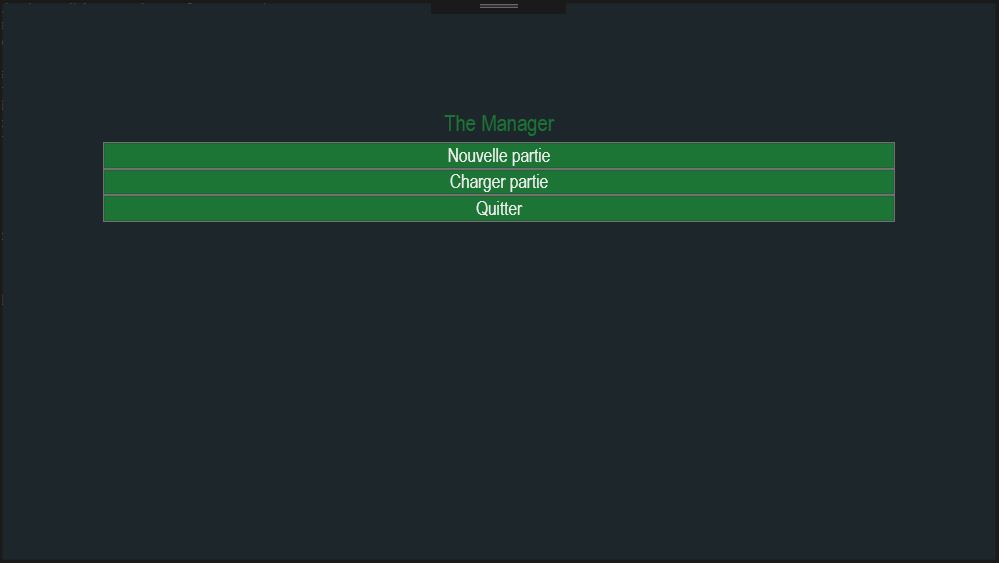
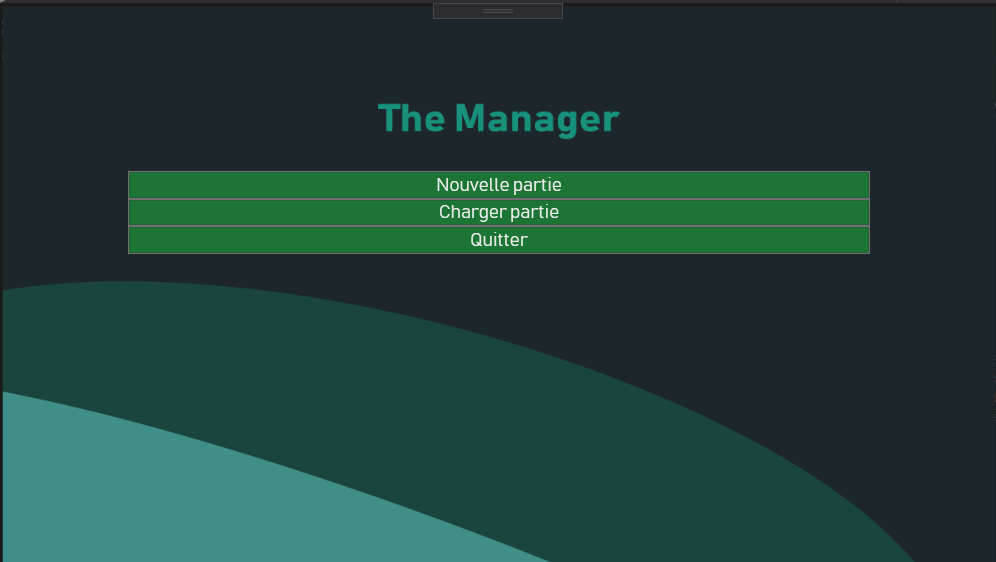
Layout adjustements

diff --git a/TheManager_GUI/Windows_Menu.xaml b/TheManager_GUI/Windows_Menu.xaml
@@ -42,12 +42,12 @@
 								<TextBlock Style="{StaticResource StyleTextBlock}" TextWrapping="WrapWithOverflow">Dijon s'impose 4 buts à contre le Paris Saint-Germain</TextBlock>
 							</StackPanel>
 						</StackPanel>
-						<StackPanel Orientation="Vertical">
+						<StackPanel Orientation="Vertical" Width="350">
 							<Button Name="btnParticipants" Width="100" Style="{StaticResource StyleButton1}" Content="Participants" Click="BtnParticipants_Click"/>
 							<StackPanel x:Name="spRoundRanking">
 								
 							</StackPanel>
-							<DataGrid Margin="10" IsReadOnly="True" Height="300" GridLinesVisibility="None" MouseDoubleClick="DgClassement_MouseDoubleClick" Name="dgClassement" Style="{StaticResource StyleDataGrid}" ColumnHeaderStyle="{StaticResource StyleDataHeaderGrid}">
+							<!--<DataGrid Margin="10" IsReadOnly="True" Height="300" GridLinesVisibility="None" MouseDoubleClick="DgClassement_MouseDoubleClick" Name="dgClassement" Style="{StaticResource StyleDataGrid}" ColumnHeaderStyle="{StaticResource StyleDataHeaderGrid}">
 								<DataGrid.Columns>
 									<DataGridTemplateColumn Width="18">
 										<DataGridTemplateColumn.CellTemplate>
@@ -72,7 +72,8 @@
 
 									</Style>
 								</DataGrid.CellStyle>
-							</DataGrid>
+							</DataGrid>-->
+
 							<StackPanel Orientation="Horizontal" HorizontalAlignment="Center">
 								<Button Name="btnGauche" Click="BtnGauche_Click">
 									<Image Name="imgBtnGauche" Source="Images/left.png" Width="25" Height="25"/>
@@ -82,9 +83,9 @@
 									<Image Name="imgBtnDroite" Source="Images/right.png" Width="25" Height="25"/>
 								</Button>
 							</StackPanel>
-							<DockPanel Name="spRoundGames" Height="175" VerticalAlignment="Stretch">
-								
-							</DockPanel>
+							<StackPanel Name="spRoundGames">
+
+							</StackPanel>
 							<!--<DataGrid IsReadOnly="True" MouseDoubleClick="DataGridRow_MouseDoubleClick" Height="175" Name="dgMatchs" Style="{StaticResource StyleDataGrid}" CellStyle="{StaticResource StyleDataCellGrid}" ColumnHeaderStyle="{StaticResource StyleDataHeaderGrid}">
 								<DataGrid.Columns>
 									<DataGridTextColumn Header="" Binding="{Binding Heure}"/>

diff --git a/TheManager_GUI/MainWindow.xaml b/TheManager_GUI/MainWindow.xaml
@@ -5,10 +5,10 @@
         xmlns:mc="http://schemas.openxmlformats.org/markup-compatibility/2006"
         xmlns:local="clr-namespace:TheManager_GUI"
         mc:Ignorable="d"
-        Title="The Manager" Height="450" Width="800" Style="{StaticResource StyleWindows}">
-    <Grid>
-		<StackPanel Margin="80">
-			<Label Content="The Manager" Style="{StaticResource StyleLabel1}"/>
+        Title="The Manager" Height="450" Width="800" Style="{StaticResource StyleWindows}" Name="mainWindow" >
+	<Grid>
+		<StackPanel Margin="100">
+			<Label Content="" Style="{StaticResource StyleLabel1}"/>
 			<Button Name="btnNouvellePartie" Click="BtnNouvellePartie_Click" Content="Nouvelle partie" Style="{StaticResource StyleButton1}"/>
 			<Button Name="btnChargerPartie" Click="BtnChargerPartie_Click" Content="Charger partie" Style="{StaticResource StyleButton1}"/>
 			<Button Name="btnQuitter" Click="BtnQuitter_Click" Content="Quitter" Style="{StaticResource StyleButton1}"/>

diff --git a/TheManager_GUI/App.xaml b/TheManager_GUI/App.xaml
@@ -88,6 +88,11 @@
 			<Setter Property="Foreground" Value="{StaticResource color2}" />
 		</Style>
 
+		<Style x:Key="StyleTextBlockLittle" TargetType="{x:Type TextBlock}">
+			<Setter Property="FontSize" Value="12"/>
+			<Setter Property="FontFamily" Value="{DynamicResource Font}"/>
+			<Setter Property="Foreground" Value="{StaticResource color2}" />
+		</Style>
 
 		<Style x:Key="StyleCheckBox" TargetType="{x:Type CheckBox}">
 			<Setter Property="FontSize" Value="13"/>

diff --git a/TheManager_GUI/Windows_Menu.xaml.cs b/TheManager_GUI/Windows_Menu.xaml.cs
@@ -62,7 +62,7 @@ namespace TheManager_GUI
                 TextBlock tb = new TextBlock();
                 tb.TextWrapping = TextWrapping.WrapWithOverflow;
                 tb.Text = a.publication.ToShortDateString() + " - " + a.title;
-                tb.Style = Application.Current.FindResource("StyleTextBlock") as Style;
+                tb.Style = Application.Current.FindResource("StyleTextBlockLittle") as Style;
                 spNews.Children.Add(tb);
 
             }
@@ -95,7 +95,7 @@ namespace TheManager_GUI
             if(c != null)
             {
                 lbTours.Items.Clear();
-                dgClassement.Items.Clear();
+                //dgClassement.Items.Clear();
                 foreach (Round t in c.rounds)
                 {
                     lbTours.Items.Add(t);
@@ -108,11 +108,11 @@ namespace TheManager_GUI
         {
             Round t = lbTours.SelectedItem as Round;
 
-            IVueClassement vue = FabriqueVueClassement.CreerVue(dgClassement, t, 0.7);
+            IVueClassement vue = FabriqueVueClassement.CreerVue(/*dgClassement*/null, t, 0.7);
             if (vue != null)
             {
                 vue.Remplir(spRoundRanking);
-                vue.Afficher();
+                //vue.Afficher();
             }
             /*
             if (t as TourChampionnat != null)
@@ -141,6 +141,7 @@ namespace TheManager_GUI
             }
         }*/
 
+        /*
         private void DgClassement_MouseDoubleClick(object sender, MouseButtonEventArgs e)
         {
             if(dgClassement.SelectedItem != null)
@@ -153,7 +154,7 @@ namespace TheManager_GUI
                 }
                    
             }
-        }
+        }*/
 
         private void BtnOptions_Click(object sender, RoutedEventArgs e)
         {
@@ -380,10 +381,10 @@ namespace TheManager_GUI
             view.Refresh();
             foreach (Match m in matchs)
             {
-                if (lastTime != m.day.Date)
+                /*if (lastTime != m.day.Date)
                 {
-                    //dgMatchs.Items.Add(new CalendrierElement { Heure=m.day.ToShortDateString()});
-                }
+                    dgMatchs.Items.Add(new CalendrierElement { Heure=m.day.ToShortDateString()});
+                }*/
                 lastTime = m.day.Date;
                 string score = "A jouer";
                 string affluence = "-";

diff --git a/TheManager_GUI/VueClassement/MatchesDataGridView.cs b/TheManager_GUI/VueClassement/MatchesDataGridView.cs
@@ -103,9 +103,9 @@ namespace TheManager_GUI.VueClassement
         private readonly bool _showOdds;
         private readonly bool _showHour;
         private readonly bool _showTournament;
-        private readonly List<TheManager.Match> _matches;
+        private readonly List<Match> _matches;
 
-        public MatchesDataGridView(Panel panel, List<TheManager.Match> matches, bool showHour, bool showDateSeparated, bool showAttendance, bool showOdds, bool showTournament)
+        public MatchesDataGridView(Panel panel, List<Match> matches, bool showHour, bool showDateSeparated, bool showAttendance, bool showOdds, bool showTournament)
         {
             _panel = panel;
             _showTournament = showTournament;
@@ -218,7 +218,7 @@ namespace TheManager_GUI.VueClassement
             }
 
             DateTime lastTime = new DateTime(2000, 1, 1);
-            foreach (TheManager.Match m in _matches)
+            foreach (Match m in _matches)
             {    
                 if (_showSeparatedDate && lastTime != m.day.Date)
                 {

diff --git a/TheManager_GUI/VueClassement/VueClassementChampionnat.cs b/TheManager_GUI/VueClassement/VueClassementChampionnat.cs
@@ -89,10 +89,10 @@ namespace TheManager_GUI.VueClassement
                 image.Source = new BitmapImage(new Uri(Utils.Logo(c)));
                 image.Width = 30 * _sizeMultiplier;
 
-                double regularCellWidth = 40/* * (1 + ((_sizeMultiplier - 1)/2))*/;
+                double regularCellWidth = 36/* * (1 + ((_sizeMultiplier - 1)/2))*/;
 
                 Label l2 = new Label();
-                ApplyStyle2Label(l2, 150 * _sizeMultiplier);
+                ApplyStyle2Label(l2, 175 * _sizeMultiplier);
                 l2.Content = c.shortName;
 
                 Label l3 = new Label();

diff --git a/TheManager_GUI/MainWindow.xaml.cs b/TheManager_GUI/MainWindow.xaml.cs
@@ -51,9 +51,16 @@ namespace TheManager_GUI
 
         }
 
+        public void LoadBackgroundImage()
+        {
+            ImageSource imgSource = new BitmapImage(new Uri(Utils.Image("themanager.png")));
+            mainWindow.Background = new ImageBrush(imgSource);
+        }
+
         public MainWindow()
         {
             InitializeComponent();
+            LoadBackgroundImage();
             LoadThemes();
         }
 

diff --git a/Readme.md b/Readme.md
@@ -6,35 +6,35 @@ The Manager is a soccer simulator aiming to simulate tournaments, matchs, and cl
 
 ### Menu
 
-![Alt text](Pics/pic1.png?raw=true "Main menu")
+![Main menu](Pics/pic1.png?raw=true "Main menu")
 
 ### Simulation configuration
 
-![Alt text](Pics/pic2.png?raw=true "Configuration screen")
+![Configuration screen](Pics/pic2.png?raw=true "Configuration screen")
 
 ### Tournaments screen
 
-![Alt text](Pics/pic3.png?raw=true "Tournaments screen")
+![Menu screen](Pics/pic3.png?raw=true "Menu screen") ![Menu screen](Pics/pic10.png?raw=true "Menu screen")
 
 ### Club screen
 
-![Alt text](Pics/pic4.png?raw=true "Club screen")
+![Club screen](Pics/pic4.png?raw=true "Club screen")
 
 ### Player screen
 
-![Alt text](Pics/pic5.png?raw=true "Player screen")
+![Player screen](Pics/pic5.png?raw=true "Player screen")
 
 ### Match screen
 
-![Alt text](Pics/pic6.png?raw=true "Match screen")
+![Match screen](Pics/pic6.png?raw=true "Match screen")
 
 ### Pre-match screen
 
-![Alt text](Pics/pic8.png?raw=true "Pre-match screen")
+![Pre-match screen](Pics/pic8.png?raw=true "Pre-match screen")
 
 ### Live match screen
 
-![Alt text](Pics/pic7.png?raw=true "Live match")
+![Live match](Pics/pic7.png?raw=true "Live match")
 
 ## Features implemented
 
@@ -43,6 +43,7 @@ The Manager is a soccer simulator aiming to simulate tournaments, matchs, and cl
 | **Environment**                                                           | 
 | Simulation on multiple years                                              |
 | Managers                                                                  |
+| Medias                                                                    |
 | **Games**                                                                 | 
 | Match simulation                                                          |
 | Engine to follow games in real-time (ranking, results of others matches)  |
@@ -84,6 +85,7 @@ The Manager is a soccer simulator aiming to simulate tournaments, matchs, and cl
 | Improve GUI                                                           | ![#ffa500](https://placehold.it/15/ffa500/000000?text=+) In progress |
 | Custom themes                                                         | ![#ffa500](https://placehold.it/15/ffa500/000000?text=+) In progress |
 | **Miscellaneous**                                                     |                                                                      |
+| Try to reduce savegame size (135mo / year)                            | ![#f03c15](https://placehold.it/15/f03c15/000000?text=+) Not started |
 | Several journalists on one game                                       | ![#f03c15](https://placehold.it/15/f03c15/000000?text=+) Not started |
 | (Data editor)                                                         | ![#f03c15](https://placehold.it/15/f03c15/000000?text=+) Not started |
 | (Generate Wiki with simulation data)                                  | ![#f03c15](https://placehold.it/15/f03c15/000000?text=+) Not started |
